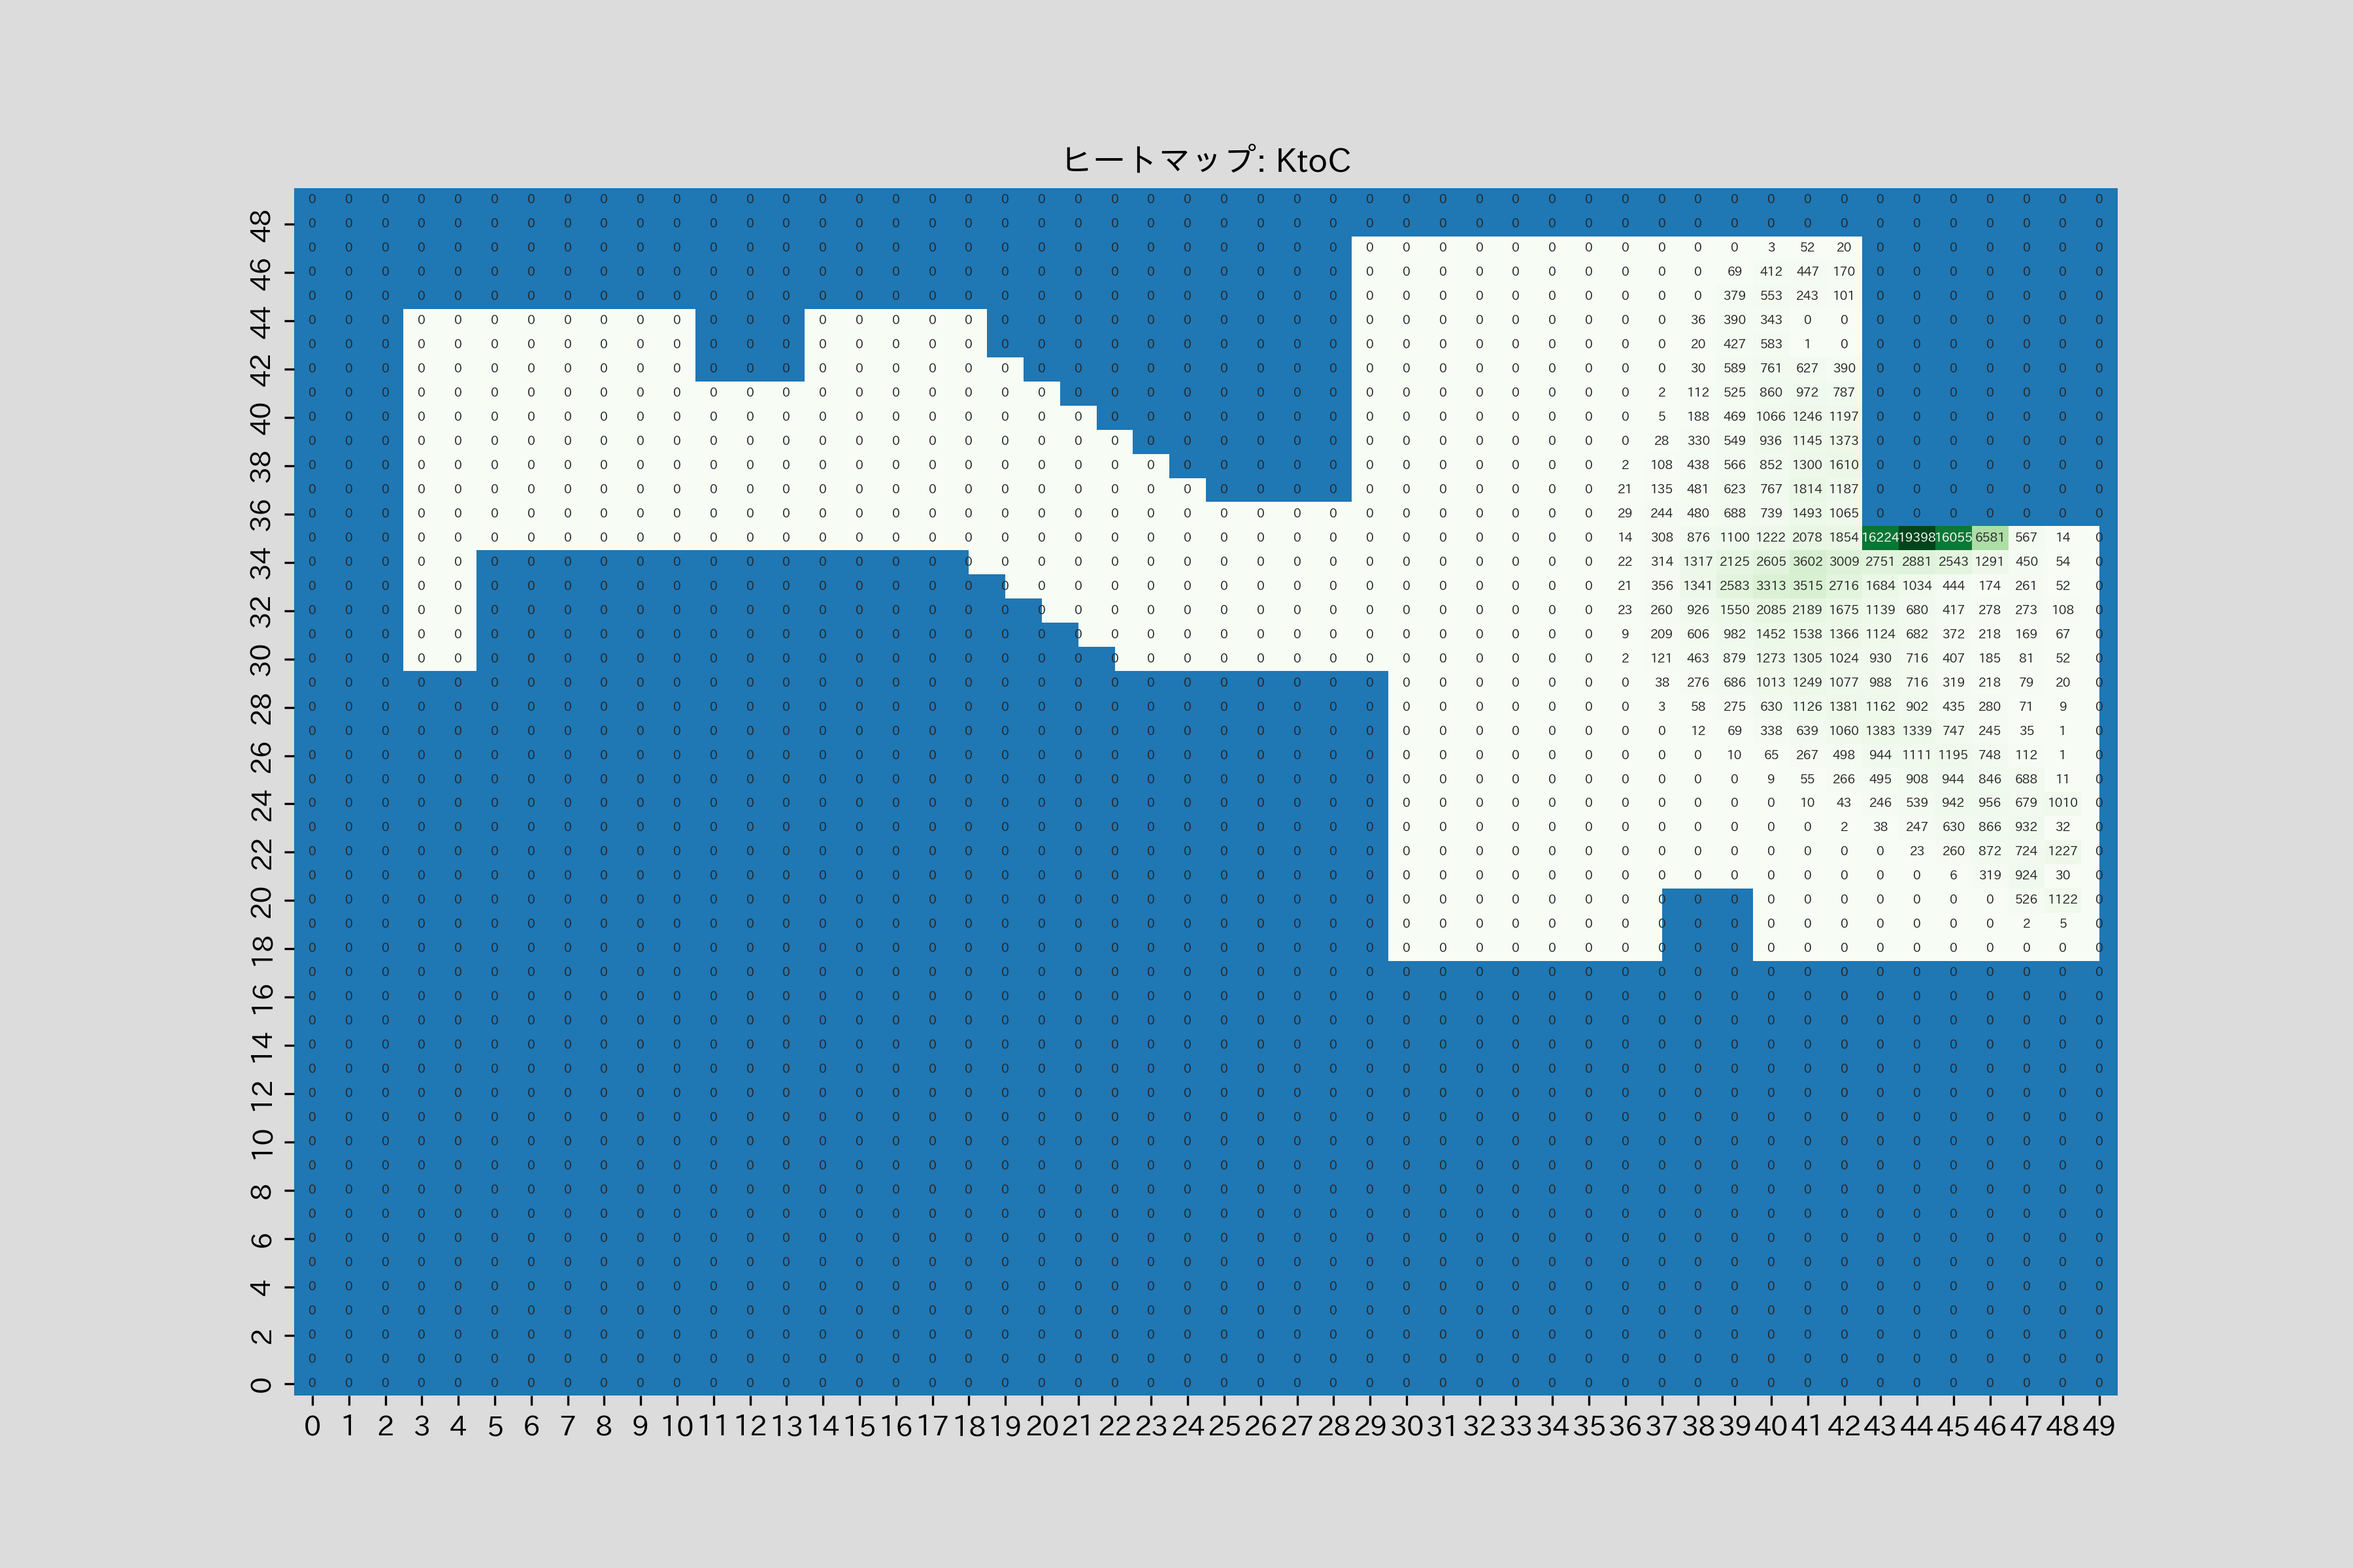
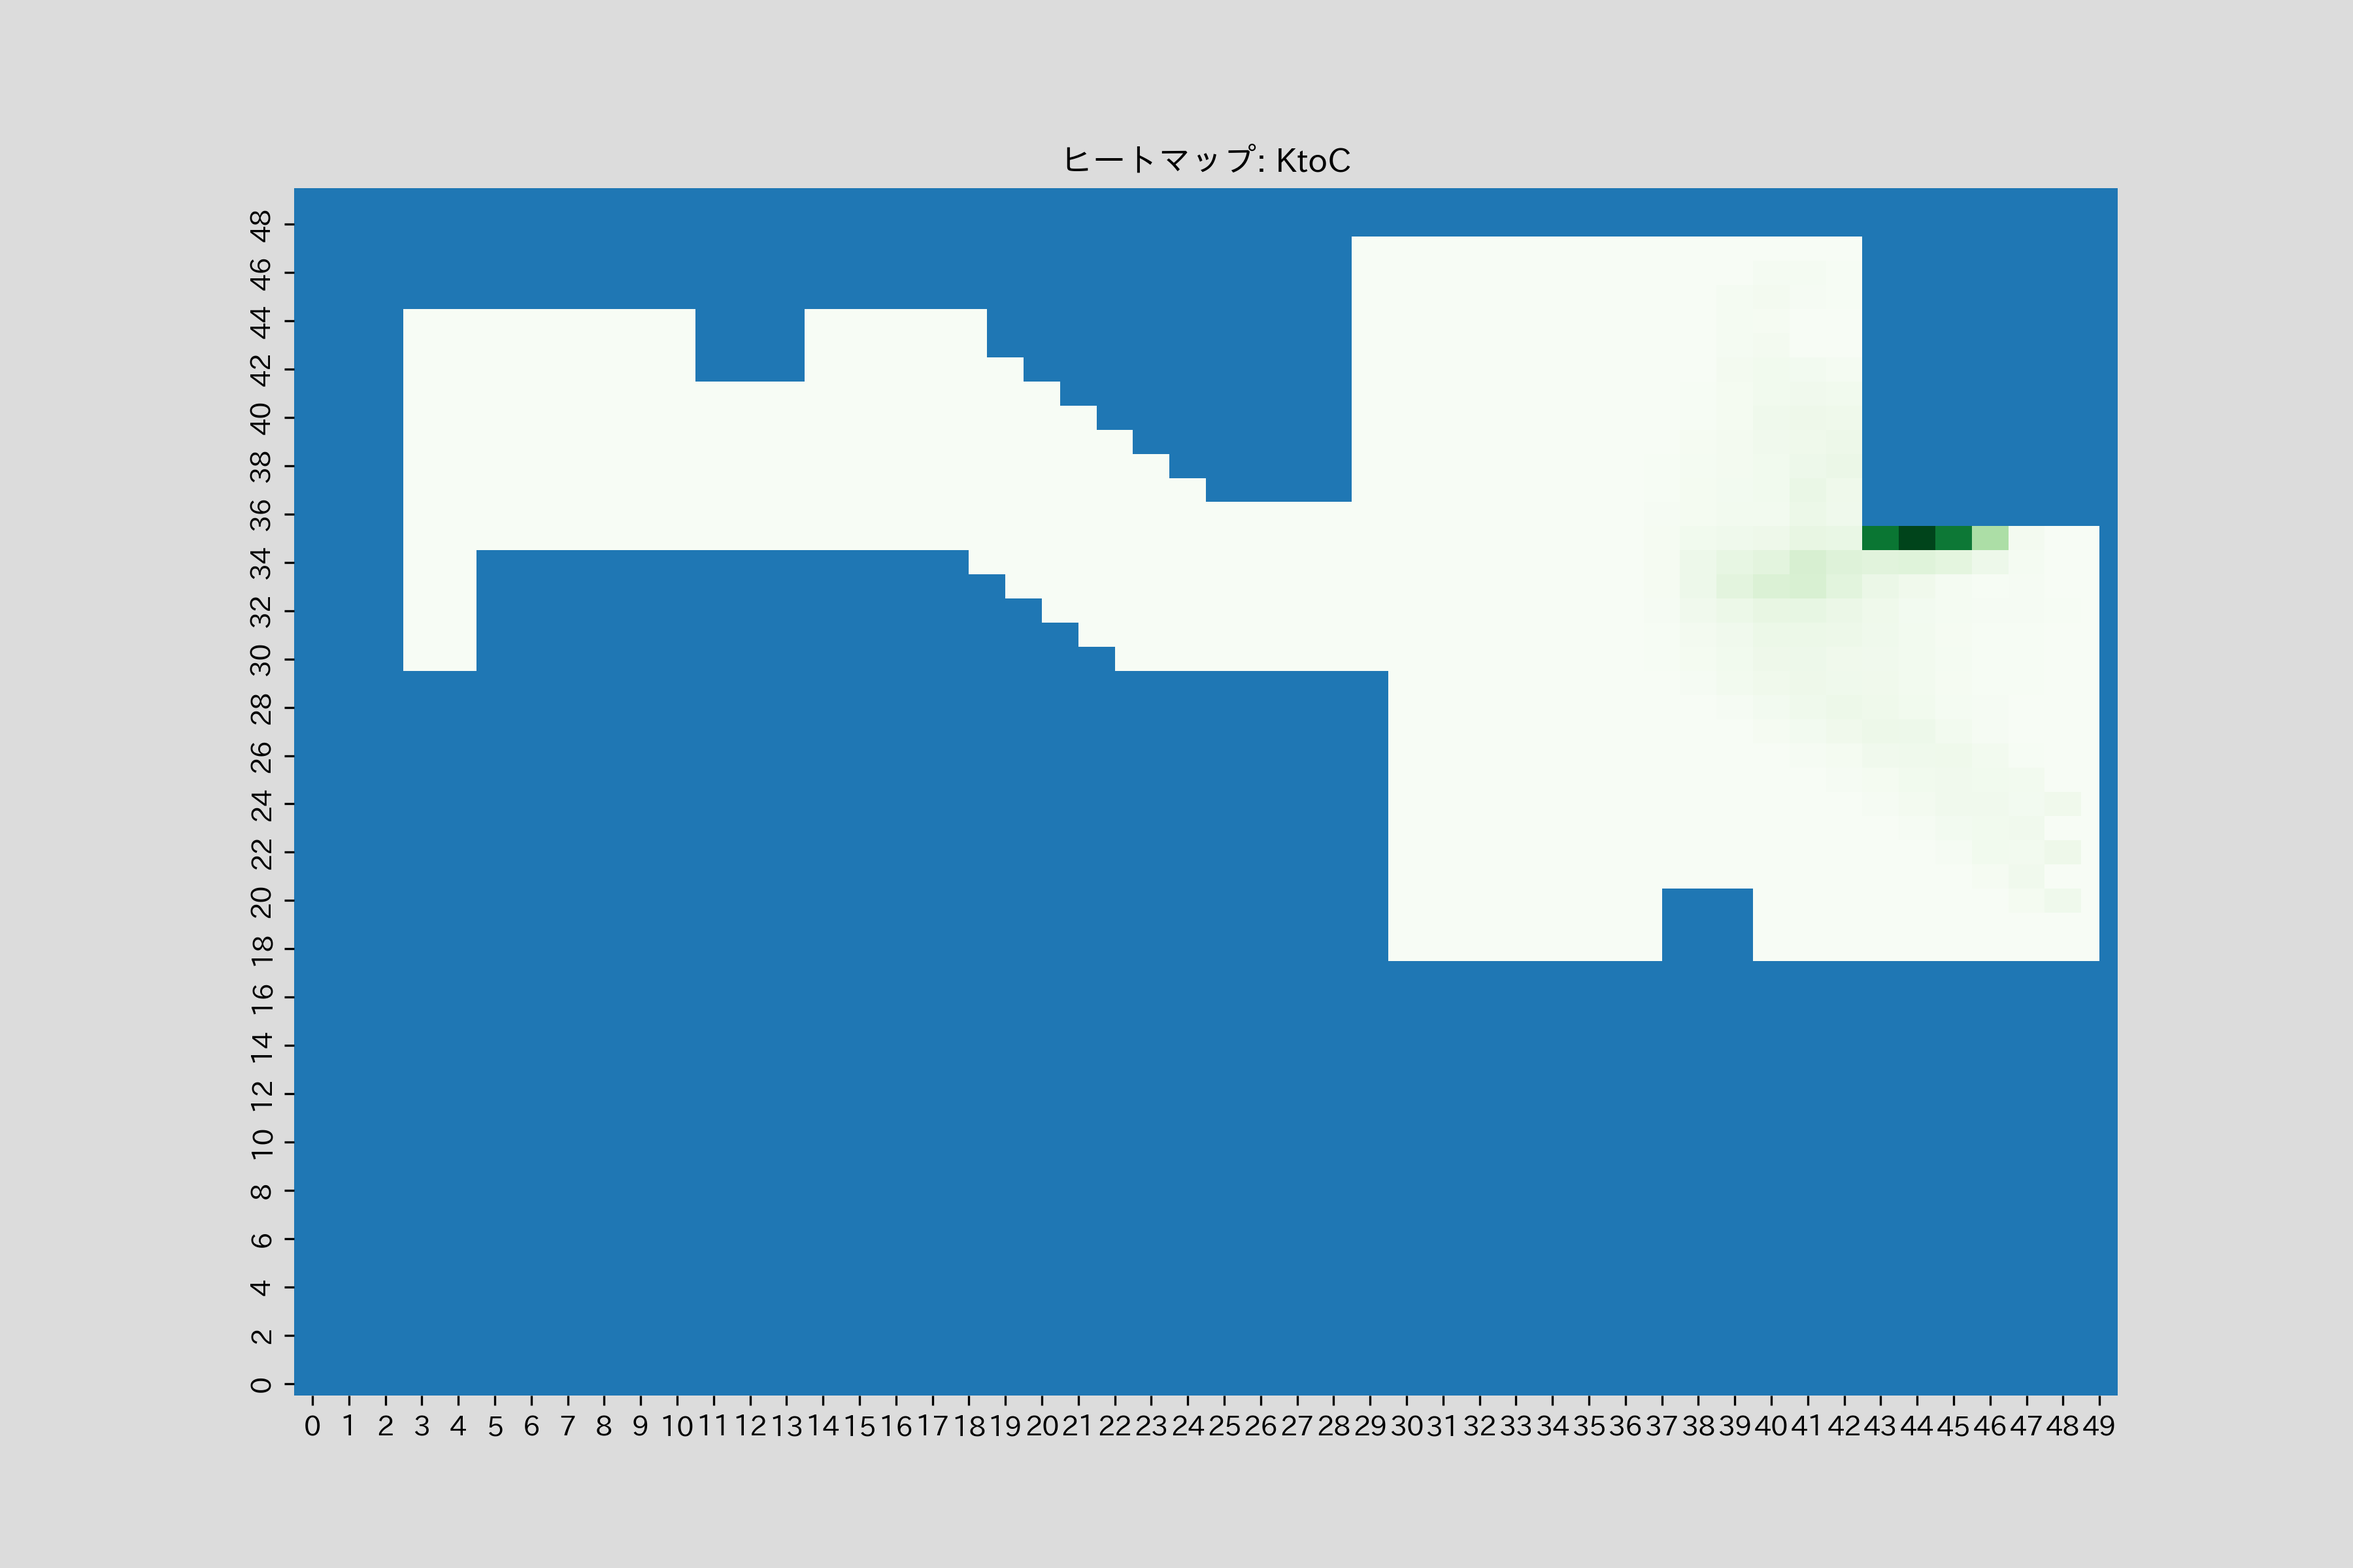
正規化したgapヒートマップの出力機能

Changed region(s): [[0.7156, 0.25, 0.8711, 0.5312]]

diff --git a/gap_morning_latest.py b/gap_morning_latest.py
@@ -10,10 +10,12 @@ from result_morning_latest import *
 
 type = "result_morning"
 
-now_string = "aw09"
+now_string = "wall07"
 kabe = True
 
 s_now_string = "s_" + now_string
+
+normalllls = rrr["s_normal"]
 
 now = rrr[s_now_string]
 keys = ["全部", "AtoK", "BtoK", "CtoK", "KtoA", "KtoB", "KtoC", "S_AtoK", "S_BtoK", "S_CtoK", "S_KtoA", "S_KtoB", "S_KtoC"]
@@ -111,6 +113,49 @@ def GappingHeatmap(results, walls, fig_name):
     fig2.savefig(f"{type}/{fig_name}/gap.png", dpi=300)
     plt.close(fig2)
 
+def GappingHeatmapNew(now_agents_positions, walls, fig_name): # 正規化, position分け
+    points_list = get_points_in_rectangles(walls)
+    global normalllls
+
+    for key in keys:
+        
+        fig2, ax2 = plt.subplots(figsize=(12.0, 8.0),
+                            facecolor="gainsboro")
+        
+        ax2.set_xlim(0, 500)
+        ax2.set_ylim(0, 500)
+
+        ax2.set_title(f"ヒートマップ: {key}")
+        nor = normalllls[key]
+        nor = create_map_from_points(points_list, nor)
+        nor = np.array(nor)
+        total_normal = np.sum(nor)
+        nor = nor*100/total_normal
+    
+        now = now_agents_positions[key]
+        now = create_map_from_points(points_list, now)
+        now = np.array(now)
+        total_now = np.sum(now)
+        now = now*100/total_now
+
+        gap = now - nor
+
+        gap_max = np.max(abs(gap))
+
+        if key in speeds:
+            return
+        else:
+            ax2 = sns.heatmap(gap, cmap='bwr',cbar=False, annot=True, fmt='.2f', annot_kws={'fontsize':4.5}, vmax=gap_max, vmin=-1*gap_max)
+        for wall in walls:
+                ax2.add_patch(Rectangle((wall[0]/10, wall[1]/10), (wall[2]-wall[0])/10, (wall[3]-wall[1])/10))
+        ax2.invert_yaxis()
+
+        if kabe:
+            ax2.add_patch(Rectangle((addwalls[now_string][0]/10, addwalls[now_string][1]/10), (addwalls[now_string][2]-addwalls[now_string][0])/10, (addwalls[now_string][3]-addwalls[now_string][1])/10))
+
+        # plt.show()
+        fig2.savefig(f"{type}/{fig_name}/heatmap_gap_{key}.png", dpi=300)
+        plt.close(fig2)
 
 # 箱ひげ図
 def GappingHakohigeHazure(results, fig_name):
@@ -148,5 +193,5 @@ def CountZero(now):
 
 
 
-HeatmappingNumber(now, walls, now_string)
-
+# HeatmappingNumber(now, walls, now_string)
+GappingHeatmapNew(now, walls, now_string)
